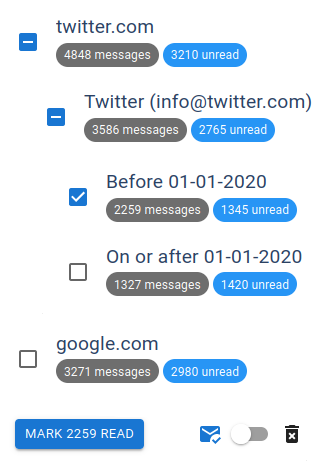
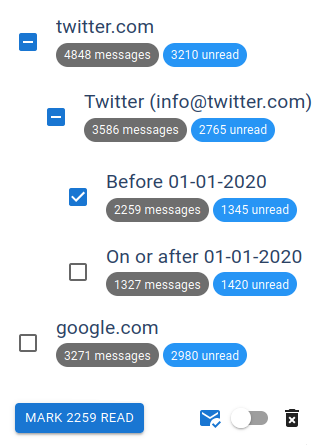
interest stack deployed

diff --git a/infra/lib/interest.ts b/infra/lib/interest.ts
@@ -1,0 +1,76 @@
+import * as cdk from 'aws-cdk-lib';
+import * as S3 from 'aws-cdk-lib/aws-s3';
+import * as CloudFront from 'aws-cdk-lib/aws-cloudfront';
+import * as S3Deployment from 'aws-cdk-lib/aws-s3-deployment';
+import { Construct } from 'constructs';
+import { resolve } from "path";
+import * as route53 from 'aws-cdk-lib/aws-route53';
+import * as acm from 'aws-cdk-lib/aws-certificatemanager';
+import * as targets from 'aws-cdk-lib/aws-route53-targets';
+import * as CFOrigins from 'aws-cdk-lib/aws-cloudfront-origins';
+import { InfraStackProps } from './infra-stack';
+
+/**
+ * Static site with signup form for interest newsletter using Mailchimp
+ */
+
+export class InterestStack extends cdk.Stack {
+    constructor(scope: Construct, id: string, props: InfraStackProps) {
+        super(scope, id, props);
+
+        const bucketName = `mailboxsweep-interest-${props.envirnomentName}-bucket`;
+        const siteBucket = new S3.Bucket(this, bucketName, {
+            bucketName: bucketName,
+            publicReadAccess: true,
+            removalPolicy: cdk.RemovalPolicy.DESTROY,
+            // just a static site that is in VCS, blow it up
+            autoDeleteObjects: true,
+        });
+
+        const zone = route53.HostedZone.fromLookup(this, "Zone", {
+            domainName: "mailboxsweep.com",
+        });
+
+        const siteCert = new acm.DnsValidatedCertificate(this, "SiteCertificate", {
+            domainName: "mailboxsweep.com",
+            hostedZone: zone,
+            region: "us-east-1",  //standard for acm certs
+        });
+        
+
+        const deploymentName = `mailboxsweep_interest_${props.envirnomentName}_bdpl`;
+        const deployment = new S3Deployment.BucketDeployment(this, deploymentName, {
+            destinationBucket: siteBucket,
+            sources: [S3Deployment.Source.asset(resolve(__dirname, "../../interest"))]
+        })
+        const originAccessIdentity = new CloudFront.OriginAccessIdentity(this, 'OriginAccessIdentity');
+
+        const distName = `mailboxsweep_interest_dist_${props.envirnomentName}_dist`;
+        const siteDistribution = new CloudFront.Distribution(this, distName, {
+            certificate: siteCert,
+            defaultRootObject: "index.html",
+            domainNames: ["mailboxsweep.com"],
+            minimumProtocolVersion: CloudFront.SecurityPolicyProtocol.TLS_V1_2_2021,
+            errorResponses:[
+                {
+                httpStatus: 403,
+                responseHttpStatus: 403,
+                responsePagePath: '/error.html',
+                ttl: cdk.Duration.minutes(30),
+                }
+            ],
+            defaultBehavior: {
+                origin: new CFOrigins.S3Origin(siteBucket, {originAccessIdentity: originAccessIdentity}),
+                compress: true,
+                allowedMethods: CloudFront.AllowedMethods.ALLOW_GET_HEAD_OPTIONS,
+                viewerProtocolPolicy: CloudFront.ViewerProtocolPolicy.REDIRECT_TO_HTTPS,
+      }
+        });
+        
+        const recordName = `mailboxsweep_interest_arecord_${props.envirnomentName}`;
+        new route53.ARecord(this, recordName, {
+            target: route53.RecordTarget.fromAlias(new targets.CloudFrontTarget(siteDistribution)),
+            zone,
+        });
+    }
+}

diff --git a/interest/index.html b/interest/index.html
@@ -20,9 +20,10 @@
         <link href="https://fonts.googleapis.com/css2?family=Lobster&family=Roboto:wght@300;400&display=swap" rel="stylesheet"> 
         <link href="https://fonts.googleapis.com/icon?family=Material+Icons" rel="stylesheet">
         <link rel="icon" href="img/favicon.ico" />
+        <link rel="stylesheet" href="https://cdnjs.cloudflare.com/ajax/libs/font-awesome/5.15.1/css/all.min.css" integrity="sha512-+4zCK9k+qNFUR5X+cKL9EIR+ZOhtIloNl9GIKS57V1MyNsYpYcUrUeQc9vNfzsWfV28IaLL3i96P9sdNyeRssA==" crossorigin="anonymous">
     </head>
     <body>
-        <nav class="navbar navbar-expand-lg navbar-light navbar-mbs shadow">
+        <nav class="navbar navbar-expand-lg navbar-light navbar-mbs">
             <h1 class="navbar-text py-1">MailboxSweep</h1>
         </nav>
         <div class="container">
@@ -50,16 +51,14 @@
                 </div>
             </div>
             <div class="row justify-content-center">
-                <div class="col-lg-6 col-md-8 col-sm-12 col-xs-12">
-                    <form action="https://mailboxsweep.us9.list-manage.com/subscribe/post?u=0ad0f9a32fdaecab0dd14f812&amp;id=5e4e9abf8c&amp;f_id=008916e1f0" method="post" id="mc-embedded-subscribe-form" name="mc-embedded-subscribe-form" class="validate" target="_self">
-                        <div class="input-group my-4">
-                            <input type="email" value="" name="EMAIL" class="form-control" id="mce-EMAIL" placeholder="Sign up for email updates" required>
-                            <div class="input-group-append">
-                                <button id="mc-embedded-subscribe" type="submit" name="subscribe" class="btn btn-primary btn-styled btn-group-end">
-                                    <span class="material-icons py-1">arrow_forward_ios</span>
-                                </button>
-                            </div>
-                        </div>
+                <div class="col-lg-5 col-md-8 col-sm-10 col-xs-12">
+                    <form class="mb-3" action="https://mailboxsweep.us9.list-manage.com/subscribe/post?u=0ad0f9a32fdaecab0dd14f812&amp;id=5e4e9abf8c&amp;f_id=008916e1f0" method="post" id="mc-embedded-subscribe-form" name="mc-embedded-subscribe-form" class="validate" target="_self">
+                        <input type="text" value="" name="FNAME" class="form-control mt-4 mb-2" id="mce-FNAME" placeholder="First Name">
+                        <input type="email" value="" name="EMAIL" class="form-control mb-2" id="mce-EMAIL" placeholder="Email" required>
+                        <button id="mc-embedded-subscribe" type="submit" name="subscribe" class="btn btn-primary btn-styled btn-end">
+                            Sign up
+                            <span class="fa fa-right"></span>
+                        </button>
                     </form>
 
                     <p class="text my-3">
@@ -115,7 +114,7 @@
             </div>
             <div class="row justify-content-center">
                 <div class="col d-flex w-100">
-                    <small class="mx-auto my-3">©2023 MailboxSweep</small>
+                    <small class="mx-auto my-3">&copy;2023 MailboxSweep</small>
                 </div>
             </div>
         </div>

diff --git a/infra/lib/infra-stack.ts b/infra/lib/infra-stack.ts
@@ -1,16 +1,16 @@
 import * as cdk from 'aws-cdk-lib';
 import { Construct } from 'constructs';
+import { InterestStack } from './interest';
 // import * as sqs from 'aws-cdk-lib/aws-sqs';
 
+export type InfraStackProps = cdk.StackProps & {
+  envirnomentName: string;
+};
+
 export class InfraStack extends cdk.Stack {
-  constructor(scope: Construct, id: string, props?: cdk.StackProps) {
+  constructor(scope: Construct, id: string, props: InfraStackProps) {
     super(scope, id, props);
 
-    // The code that defines your stack goes here
-
-    // example resource
-    // const queue = new sqs.Queue(this, 'InfraQueue', {
-    //   visibilityTimeout: cdk.Duration.seconds(300)
-    // });
+    const staticInterestSite = new InterestStack(this, `interest-site-${props?.envirnomentName}`, props)
   }
 }

diff --git a/interest/styles.css b/interest/styles.css
@@ -13,6 +13,7 @@
     background-color: var(--color-primary);
     display: flex;
     justify-content: center;
+    box-shadow: 0px 2px 4px -1px rgba(0,0,0,0.2),0px 4px 5px 0px rgba(0,0,0,0.14),0px 1px 10px 0px rgba(0,0,0,0.12);
 }
 
 .navbar-text {
@@ -45,9 +46,10 @@
     align-items: center; 
 }
 
-.btn-group-end {
-    border-top-left-radius: 0;
-    border-bottom-left-radius: 0;
+.btn-end {
+    margin-right: 0;
+    margin-left: auto;
+    display: block;
 }
 
 .promise {
@@ -78,4 +80,8 @@
 
 .feature-list > li {
     margin-bottom: 10px;
+}
+
+.img-ui-preview {
+    width: 260px;
 }

diff --git a/infra/bin/infra.ts b/infra/bin/infra.ts
@@ -5,6 +5,11 @@ import { InfraStack } from '../lib/infra-stack';
 
 const app = new cdk.App();
 new InfraStack(app, 'InfraStack', {
+  envirnomentName: "prod", 
+  env: {
+    region: "us-west-2",
+    account: "968574982400",
+  }
   /* If you don't specify 'env', this stack will be environment-agnostic.
    * Account/Region-dependent features and context lookups will not work,
    * but a single synthesized template can be deployed anywhere. */
